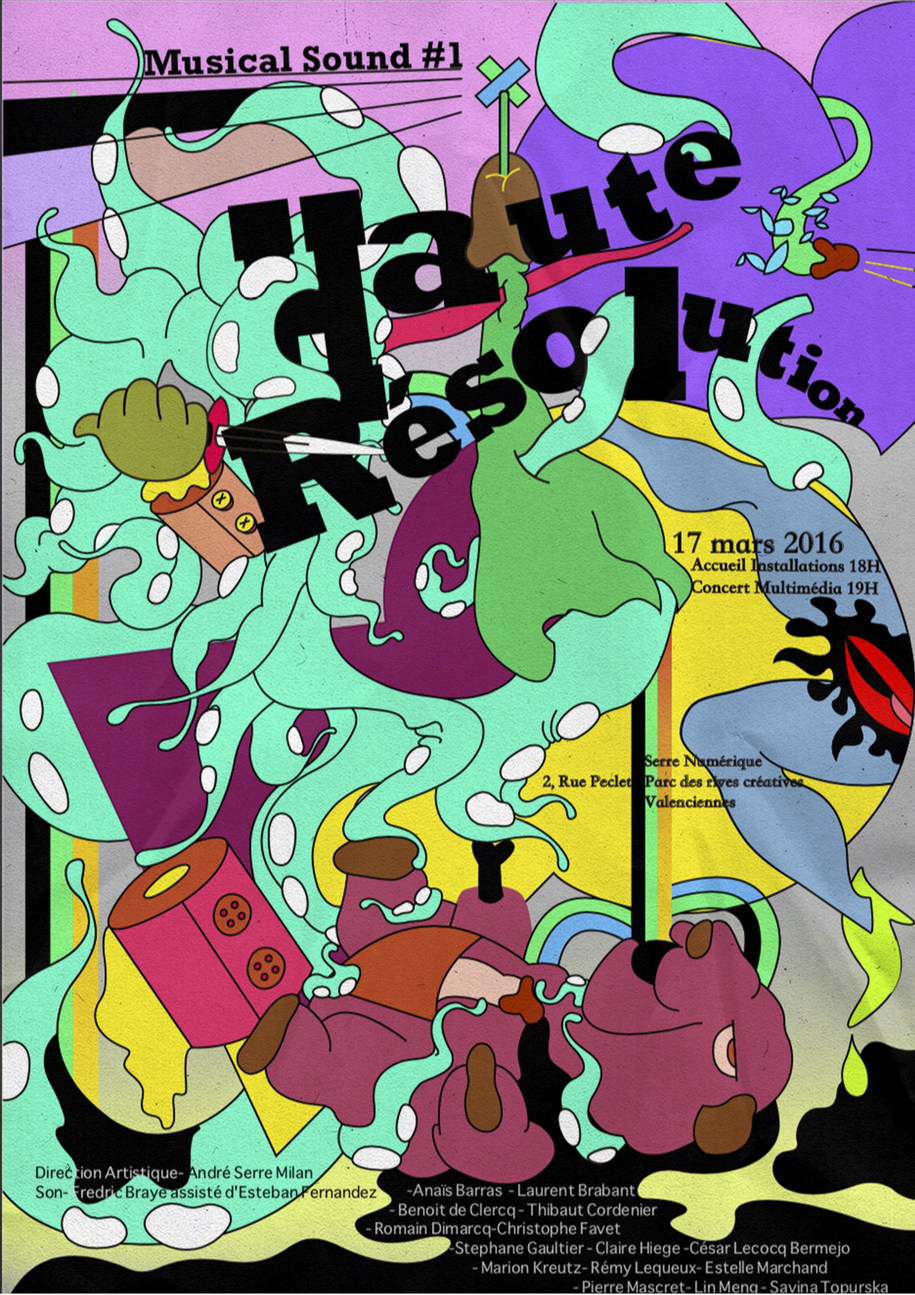
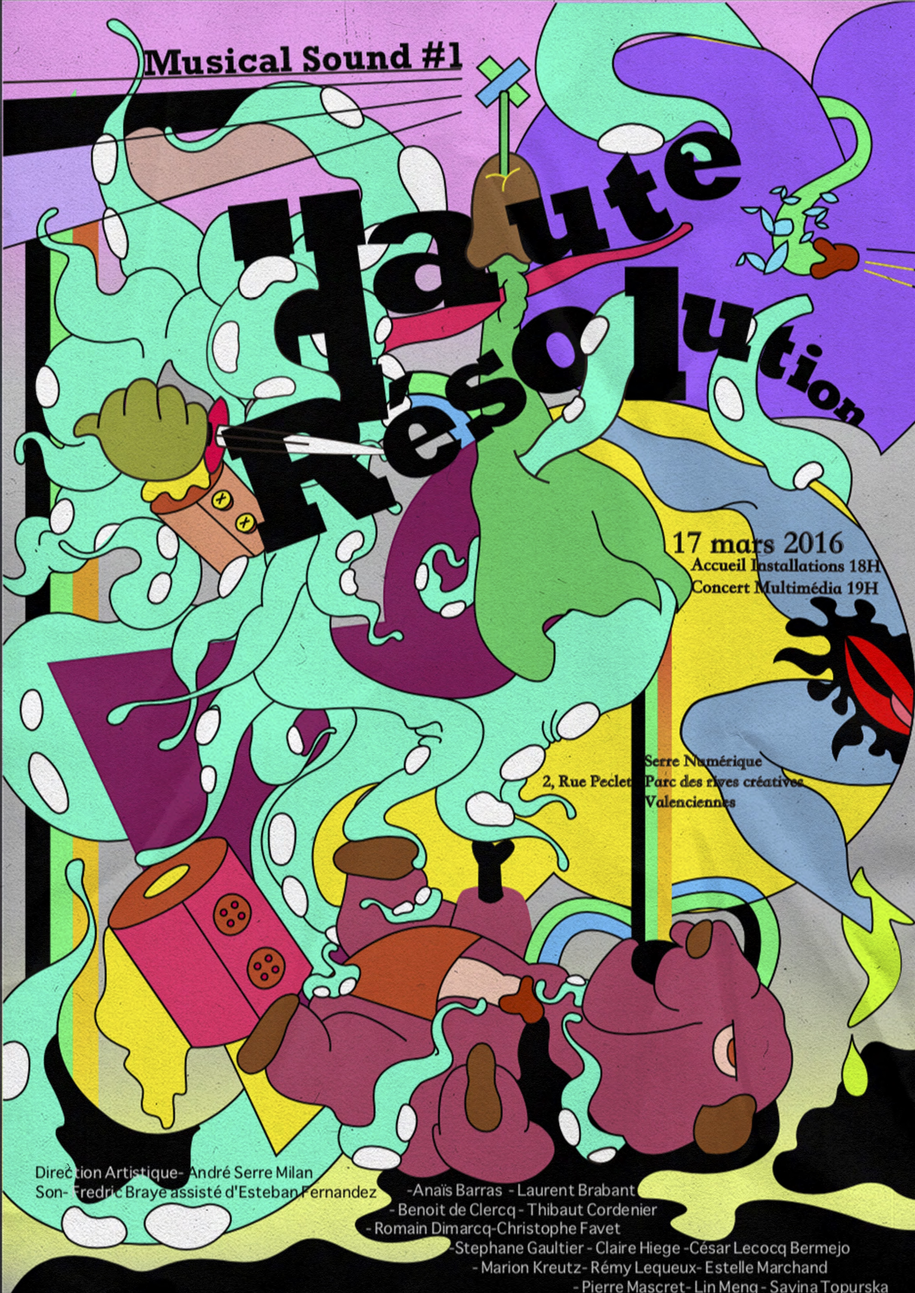
📝 Update post content and replace cover image

diff --git a/docs/posts/frida/index.html b/docs/posts/frida/index.html
@@ -1,6 +1,5 @@
 <!doctype html><html lang=en-us><head><meta charset=utf-8><meta http-equiv=X-UA-Compatible content="IE=edge"><meta name=viewport content="width=device-width,initial-scale=1,shrink-to-fit=no"><meta name=robots content="index, follow"><title>Frida | Ciana Lin Meng</title>
-<meta name=keywords content><meta name=description content="«I hope the exit is joyful, and I hope never to return.»
-— Frida Kahlo
+<meta name=keywords content><meta name=description content="«I hope the exit is joyful, and I hope never to return.» — Frida Kahlo.
 Une affiche inspirée des derniers mots de l&rsquo;artiste.
 
 Affiche de film — Frida
@@ -8,9 +7,8 @@ Impression sur papier mat, 70 × 100 cm
 2020
 
 
-"><meta name=author content="Ciana Linmeng"><link rel=canonical href=https://ciana-linm.com/posts/frida/><link crossorigin=anonymous href=/assets/css/stylesheet.f49d66caae9ea0fd43f21f29e71a8d3e284517ed770f2aa86fa012953ad3c9ef.css integrity="sha256-9J1myq6eoP1D8h8p5xqNPihFF+13Dyqob6ASlTrTye8=" rel="preload stylesheet" as=style><link rel=icon href=https://ciana-linm.com/favicon.ico><link rel=icon type=image/png sizes=16x16 href=https://ciana-linm.com/favicon-16x16.png><link rel=icon type=image/png sizes=32x32 href=https://ciana-linm.com/favicon-32x32.png><link rel=apple-touch-icon href=https://ciana-linm.com/apple-touch-icon.png><link rel=mask-icon href=https://ciana-linm.com/safari-pinned-tab.svg><meta name=theme-color content="#2e2e33"><meta name=msapplication-TileColor content="#2e2e33"><link rel=alternate hreflang=en href=https://ciana-linm.com/posts/frida/><noscript><style>#theme-toggle,.top-link{display:none}</style><style>@media(prefers-color-scheme:dark){:root{--theme:rgb(29, 30, 32);--entry:rgb(46, 46, 51);--primary:rgb(218, 218, 219);--secondary:rgb(155, 156, 157);--tertiary:rgb(65, 66, 68);--content:rgb(196, 196, 197);--code-block-bg:rgb(46, 46, 51);--code-bg:rgb(55, 56, 62);--border:rgb(51, 51, 51)}.list{background:var(--theme)}.list:not(.dark)::-webkit-scrollbar-track{background:0 0}.list:not(.dark)::-webkit-scrollbar-thumb{border-color:var(--theme)}}</style></noscript><meta property="og:url" content="https://ciana-linm.com/posts/frida/"><meta property="og:site_name" content="Ciana Lin Meng"><meta property="og:title" content="Frida"><meta property="og:description" content="«I hope the exit is joyful, and I hope never to return.» — Frida Kahlo Une affiche inspirée des derniers mots de l’artiste.
-Affiche de film — Frida Impression sur papier mat, 70 × 100 cm 2020 "><meta property="og:locale" content="en-us"><meta property="og:type" content="article"><meta property="article:section" content="posts"><meta property="article:published_time" content="2025-04-27T22:00:02+08:00"><meta property="article:modified_time" content="2025-04-27T22:00:02+08:00"><meta property="og:image" content="https://ciana-linm.com/projet-frida/cover.jpg"><meta name=twitter:card content="summary_large_image"><meta name=twitter:image content="https://ciana-linm.com/projet-frida/cover.jpg"><meta name=twitter:title content="Frida"><meta name=twitter:description content="«I hope the exit is joyful, and I hope never to return.»
-— Frida Kahlo
+"><meta name=author content="Ciana Linmeng"><link rel=canonical href=https://ciana-linm.com/posts/frida/><link crossorigin=anonymous href=/assets/css/stylesheet.f49d66caae9ea0fd43f21f29e71a8d3e284517ed770f2aa86fa012953ad3c9ef.css integrity="sha256-9J1myq6eoP1D8h8p5xqNPihFF+13Dyqob6ASlTrTye8=" rel="preload stylesheet" as=style><link rel=icon href=https://ciana-linm.com/favicon.ico><link rel=icon type=image/png sizes=16x16 href=https://ciana-linm.com/favicon-16x16.png><link rel=icon type=image/png sizes=32x32 href=https://ciana-linm.com/favicon-32x32.png><link rel=apple-touch-icon href=https://ciana-linm.com/apple-touch-icon.png><link rel=mask-icon href=https://ciana-linm.com/safari-pinned-tab.svg><meta name=theme-color content="#2e2e33"><meta name=msapplication-TileColor content="#2e2e33"><link rel=alternate hreflang=en href=https://ciana-linm.com/posts/frida/><noscript><style>#theme-toggle,.top-link{display:none}</style><style>@media(prefers-color-scheme:dark){:root{--theme:rgb(29, 30, 32);--entry:rgb(46, 46, 51);--primary:rgb(218, 218, 219);--secondary:rgb(155, 156, 157);--tertiary:rgb(65, 66, 68);--content:rgb(196, 196, 197);--code-block-bg:rgb(46, 46, 51);--code-bg:rgb(55, 56, 62);--border:rgb(51, 51, 51)}.list{background:var(--theme)}.list:not(.dark)::-webkit-scrollbar-track{background:0 0}.list:not(.dark)::-webkit-scrollbar-thumb{border-color:var(--theme)}}</style></noscript><meta property="og:url" content="https://ciana-linm.com/posts/frida/"><meta property="og:site_name" content="Ciana Lin Meng"><meta property="og:title" content="Frida"><meta property="og:description" content="«I hope the exit is joyful, and I hope never to return.» — Frida Kahlo. Une affiche inspirée des derniers mots de l’artiste.
+Affiche de film — Frida Impression sur papier mat, 70 × 100 cm 2020 "><meta property="og:locale" content="en-us"><meta property="og:type" content="article"><meta property="article:section" content="posts"><meta property="article:published_time" content="2025-04-27T22:00:02+08:00"><meta property="article:modified_time" content="2025-04-27T22:00:02+08:00"><meta property="og:image" content="https://ciana-linm.com/projet-frida/cover.jpg"><meta name=twitter:card content="summary_large_image"><meta name=twitter:image content="https://ciana-linm.com/projet-frida/cover.jpg"><meta name=twitter:title content="Frida"><meta name=twitter:description content="«I hope the exit is joyful, and I hope never to return.» — Frida Kahlo.
 Une affiche inspirée des derniers mots de l&rsquo;artiste.
 
 Affiche de film — Frida
@@ -18,8 +16,7 @@ Impression sur papier mat, 70 × 100 cm
 2020
 
 
-"><script type=application/ld+json>{"@context":"https://schema.org","@type":"BreadcrumbList","itemListElement":[{"@type":"ListItem","position":1,"name":"Posts","item":"https://ciana-linm.com/posts/"},{"@type":"ListItem","position":2,"name":"Frida","item":"https://ciana-linm.com/posts/frida/"}]}</script><script type=application/ld+json>{"@context":"https://schema.org","@type":"BlogPosting","headline":"Frida","name":"Frida","description":"«I hope the exit is joyful, and I hope never to return.» — Frida Kahlo Une affiche inspirée des derniers mots de l\u0026rsquo;artiste.\nAffiche de film — Frida Impression sur papier mat, 70 × 100 cm 2020 ","keywords":[],"articleBody":"«I hope the exit is joyful, and I hope never to return.» — Frida Kahlo Une affiche inspirée des derniers mots de l’artiste.\nAffiche de film — Frida Impression sur papier mat, 70 × 100 cm 2020 ","wordCount":"37","inLanguage":"en","image":"https://ciana-linm.com/projet-frida/cover.jpg","datePublished":"2025-04-27T22:00:02+08:00","dateModified":"2025-04-27T22:00:02+08:00","author":{"@type":"Person","name":"Ciana Linmeng"},"mainEntityOfPage":{"@type":"WebPage","@id":"https://ciana-linm.com/posts/frida/"},"publisher":{"@type":"Organization","name":"Ciana Lin Meng","logo":{"@type":"ImageObject","url":"https://ciana-linm.com/favicon.ico"}}}</script><style>body{font-family:-apple-system,BlinkMacSystemFont,helvetica neue,pingfang sc,hiragino sans gb,noto sans,microsoft yahei,sans-serif;font-weight:200}.post-card-image img{width:100px;height:100px;object-fit:cover;transition:transform .2s ease;display:block;margin:0 auto}#content .post-entry{display:inline-block;width:140px;margin:10px;vertical-align:top;text-align:center;background-color:transparent;border:none!important;box-shadow:none!important}#content main{text-align:center}.post-content img{border-radius:0!important}</style></head><body><script>localStorage.getItem("pref-theme")==="dark"?document.body.classList.add("dark"):localStorage.getItem("pref-theme")==="light"?document.body.classList.remove("dark"):window.matchMedia("(prefers-color-scheme: dark)").matches&&document.body.classList.add("dark")</script><header class=header><nav class=nav><div class=logo><a href=https://ciana-linm.com/ accesskey=h title="Ciana Lin Meng (Alt + H)">Ciana Lin Meng</a><div class=logo-switches><button id=theme-toggle accesskey=t title="(Alt + T)" aria-label="Toggle theme"><svg id="moon" width="24" height="18" viewBox="0 0 24 24" fill="none" stroke="currentcolor" stroke-width="2" stroke-linecap="round" stroke-linejoin="round"><path d="M21 12.79A9 9 0 1111.21 3 7 7 0 0021 12.79z"/></svg><svg id="sun" width="24" height="18" viewBox="0 0 24 24" fill="none" stroke="currentcolor" stroke-width="2" stroke-linecap="round" stroke-linejoin="round"><circle cx="12" cy="12" r="5"/><line x1="12" y1="1" x2="12" y2="3"/><line x1="12" y1="21" x2="12" y2="23"/><line x1="4.22" y1="4.22" x2="5.64" y2="5.64"/><line x1="18.36" y1="18.36" x2="19.78" y2="19.78"/><line x1="1" y1="12" x2="3" y2="12"/><line x1="21" y1="12" x2="23" y2="12"/><line x1="4.22" y1="19.78" x2="5.64" y2="18.36"/><line x1="18.36" y1="5.64" x2="19.78" y2="4.22"/></svg></button></div></div><ul id=menu><li><a href=https://ciana-linm.com/ title=Works><span>Works</span></a></li><li><a href=https://ciana-linm.com/about/ title=About><span>About</span></a></li></ul></nav></header><main id=content class=main><article class=post-single><header class=post-header><h1 class="post-title entry-hint-parent">Frida</h1></header><figure class=entry-cover><img loading=eager src=https://ciana-linm.com/projet-frida/cover.jpg alt></figure><div class=post-content><p>«I hope the exit is joyful, and I hope never to return.»
-— Frida Kahlo
+"><script type=application/ld+json>{"@context":"https://schema.org","@type":"BreadcrumbList","itemListElement":[{"@type":"ListItem","position":1,"name":"Posts","item":"https://ciana-linm.com/posts/"},{"@type":"ListItem","position":2,"name":"Frida","item":"https://ciana-linm.com/posts/frida/"}]}</script><script type=application/ld+json>{"@context":"https://schema.org","@type":"BlogPosting","headline":"Frida","name":"Frida","description":"«I hope the exit is joyful, and I hope never to return.» — Frida Kahlo. Une affiche inspirée des derniers mots de l\u0026rsquo;artiste.\nAffiche de film — Frida Impression sur papier mat, 70 × 100 cm 2020 ","keywords":[],"articleBody":"«I hope the exit is joyful, and I hope never to return.» — Frida Kahlo. Une affiche inspirée des derniers mots de l’artiste.\nAffiche de film — Frida Impression sur papier mat, 70 × 100 cm 2020 ","wordCount":"37","inLanguage":"en","image":"https://ciana-linm.com/projet-frida/cover.jpg","datePublished":"2025-04-27T22:00:02+08:00","dateModified":"2025-04-27T22:00:02+08:00","author":{"@type":"Person","name":"Ciana Linmeng"},"mainEntityOfPage":{"@type":"WebPage","@id":"https://ciana-linm.com/posts/frida/"},"publisher":{"@type":"Organization","name":"Ciana Lin Meng","logo":{"@type":"ImageObject","url":"https://ciana-linm.com/favicon.ico"}}}</script><style>body{font-family:-apple-system,BlinkMacSystemFont,helvetica neue,pingfang sc,hiragino sans gb,noto sans,microsoft yahei,sans-serif;font-weight:200}.post-card-image img{width:100px;height:100px;object-fit:cover;transition:transform .2s ease;display:block;margin:0 auto}#content .post-entry{display:inline-block;width:140px;margin:10px;vertical-align:top;text-align:center;background-color:transparent;border:none!important;box-shadow:none!important}#content main{text-align:center}.post-content img{border-radius:0!important}</style></head><body><script>localStorage.getItem("pref-theme")==="dark"?document.body.classList.add("dark"):localStorage.getItem("pref-theme")==="light"?document.body.classList.remove("dark"):window.matchMedia("(prefers-color-scheme: dark)").matches&&document.body.classList.add("dark")</script><header class=header><nav class=nav><div class=logo><a href=https://ciana-linm.com/ accesskey=h title="Ciana Lin Meng (Alt + H)">Ciana Lin Meng</a><div class=logo-switches><button id=theme-toggle accesskey=t title="(Alt + T)" aria-label="Toggle theme"><svg id="moon" width="24" height="18" viewBox="0 0 24 24" fill="none" stroke="currentcolor" stroke-width="2" stroke-linecap="round" stroke-linejoin="round"><path d="M21 12.79A9 9 0 1111.21 3 7 7 0 0021 12.79z"/></svg><svg id="sun" width="24" height="18" viewBox="0 0 24 24" fill="none" stroke="currentcolor" stroke-width="2" stroke-linecap="round" stroke-linejoin="round"><circle cx="12" cy="12" r="5"/><line x1="12" y1="1" x2="12" y2="3"/><line x1="12" y1="21" x2="12" y2="23"/><line x1="4.22" y1="4.22" x2="5.64" y2="5.64"/><line x1="18.36" y1="18.36" x2="19.78" y2="19.78"/><line x1="1" y1="12" x2="3" y2="12"/><line x1="21" y1="12" x2="23" y2="12"/><line x1="4.22" y1="19.78" x2="5.64" y2="18.36"/><line x1="18.36" y1="5.64" x2="19.78" y2="4.22"/></svg></button></div></div><ul id=menu><li><a href=https://ciana-linm.com/ title=Works><span>Works</span></a></li><li><a href=https://ciana-linm.com/about/ title=About><span>About</span></a></li></ul></nav></header><main id=content class=main><article class=post-single><header class=post-header><h1 class="post-title entry-hint-parent">Frida</h1></header><figure class=entry-cover><img loading=eager src=https://ciana-linm.com/projet-frida/cover.jpg alt></figure><div class=post-content><p>«I hope the exit is joyful, and I hope never to return.» — Frida Kahlo.
 Une affiche inspirée des derniers mots de l&rsquo;artiste.</p><ul><li>Affiche de film — Frida</li><li>Impression sur papier mat, 70 × 100 cm</li><li>2020</li></ul><p><img alt=项目展示图1 loading=lazy src=/projet-frida/1.jpg><br><img alt=项目展示图2 loading=lazy src=/projet-frida/2.jpg></p></div><footer class=post-footer><ul class=post-tags></ul><nav class=paginav><a class=prev href=https://ciana-linm.com/posts/xuanzhen/><span class=title>« Prev</span><br><span>Style Petit Sceau de Xuanzhen</span>
 </a><a class=next href=https://ciana-linm.com/posts/love-counter/><span class=title>Next »</span><br><span>Love Counter</span></a></nav></footer></article></main><footer class=footer><span>&copy; 2025 <a href=https://ciana-linm.com/>Ciana Lin Meng</a></span> ·
 <span>Powered by

diff --git a/content/posts/frida.md b/content/posts/frida.md
@@ -11,8 +11,7 @@ cover:
 
 
 
-«I hope the exit is joyful, and I hope never to return.»
-— Frida Kahlo
+«I hope the exit is joyful, and I hope never to return.» — Frida Kahlo.
 Une affiche inspirée des derniers mots de l'artiste.
 
 - Affiche de film — Frida
